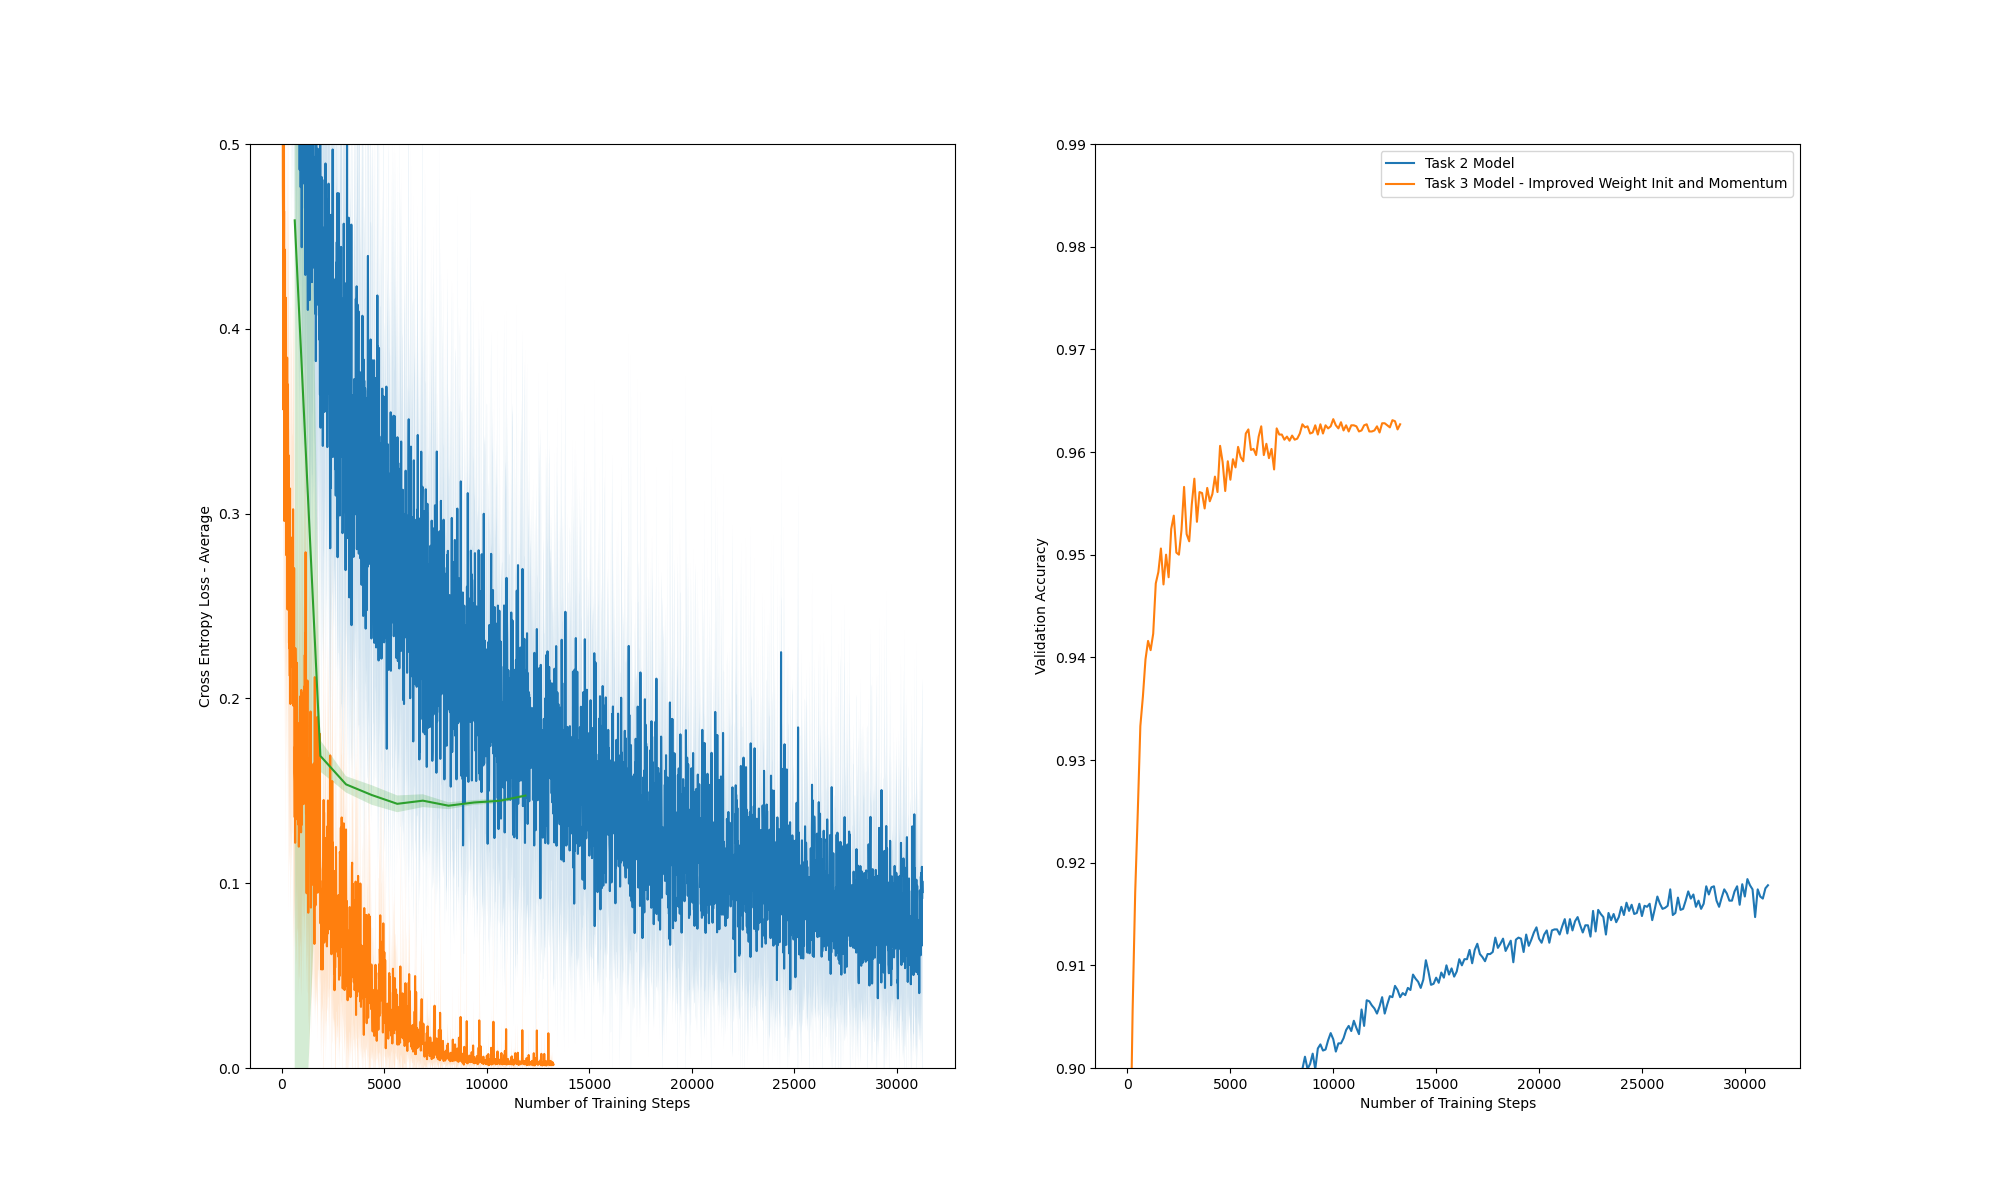
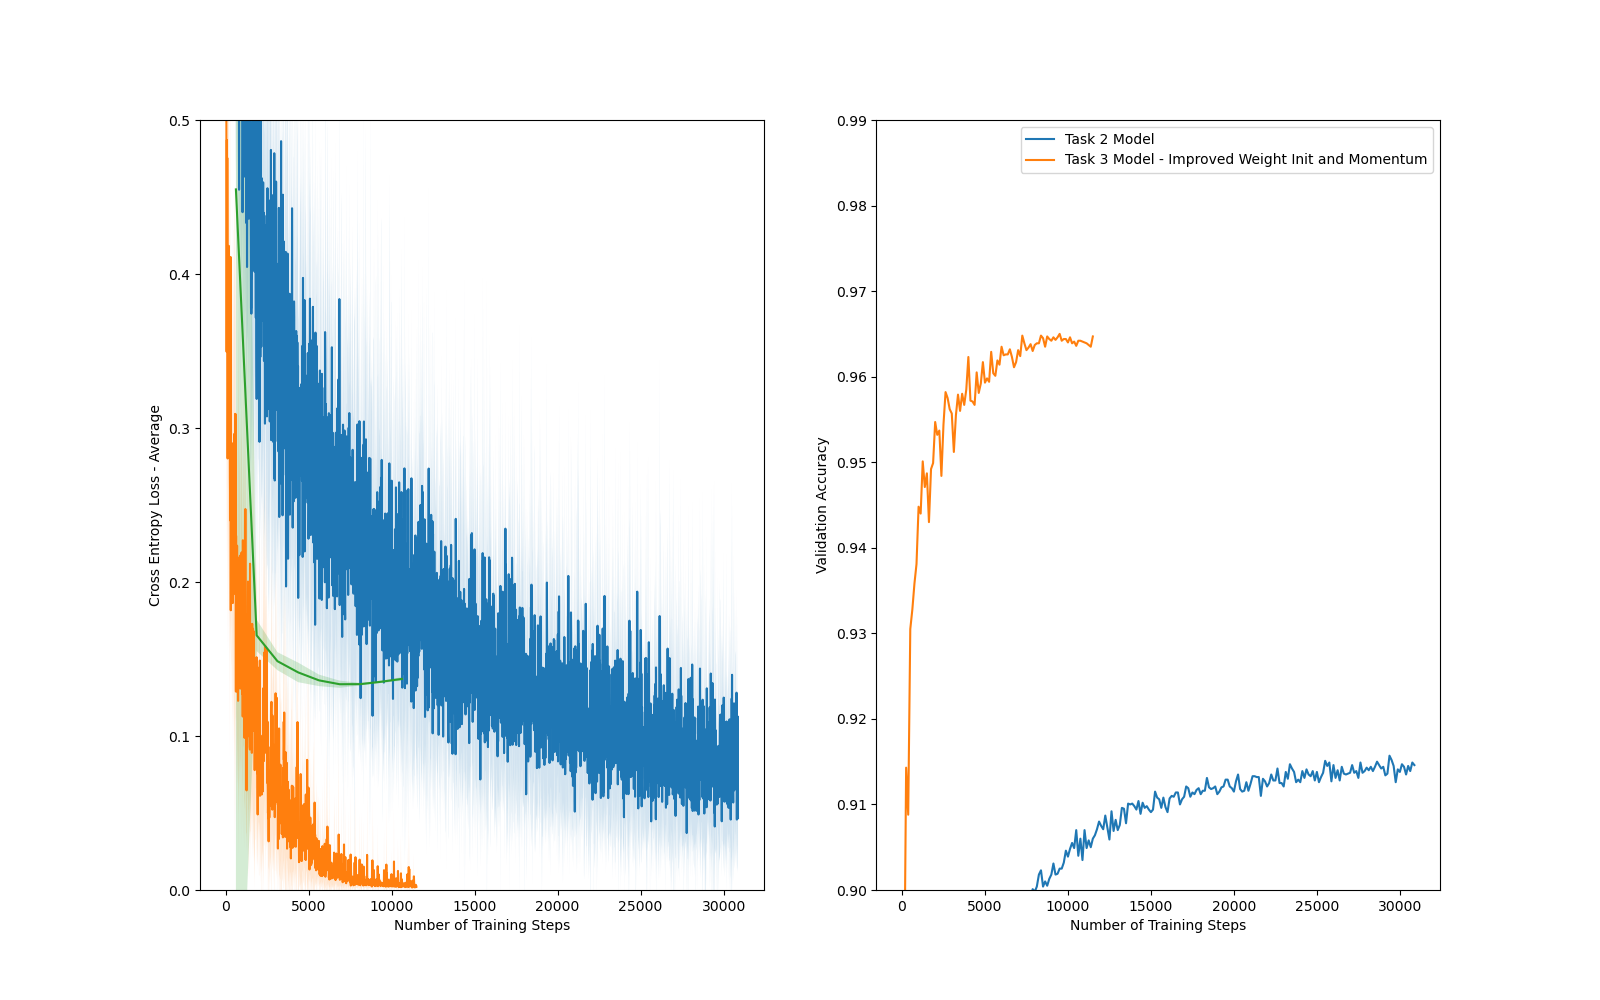
Final assignment 2

diff --git a/assignment2/task3.py b/assignment2/task3.py
@@ -60,7 +60,7 @@ if __name__ == "__main__":
         use_improved_weight_init = False
 
         if single_plots:
-            plt.figure(figsize=(20, 12))
+            plt.figure(figsize=(16, 10))
             plt.subplot(1, 2, 1)
             plt.ylim([0, .5])
             utils.plot_loss(train_history["loss"], "Task 2 Model", npoints_to_average=10)
@@ -104,7 +104,7 @@ if __name__ == "__main__":
         use_improved_sigmoid = False
 
         if single_plots:
-            plt.figure(figsize=(20, 12))
+            plt.figure(figsize=(16, 10))
             plt.subplot(1, 2, 1)
             plt.ylim([0, .5])
             utils.plot_loss(train_history["loss"], "Task 2 Model", npoints_to_average=10)
@@ -147,7 +147,7 @@ if __name__ == "__main__":
         use_momentum = False
 
         if single_plots:
-            plt.figure(figsize=(20, 12))
+            plt.figure(figsize=(16, 10))
             plt.subplot(1, 2, 1)
             plt.ylim([0, .5])
             utils.plot_loss(train_history["loss"], "Task 2 Model", npoints_to_average=10)
@@ -189,7 +189,7 @@ if __name__ == "__main__":
         use_momentum = False
 
         if single_plots:
-            plt.figure(figsize=(20, 12))
+            plt.figure(figsize=(16, 10))
             plt.subplot(1, 2, 1)
             plt.ylim([0, .5])
             utils.plot_loss(train_history["loss"], "Task 2 Model", npoints_to_average=10)
@@ -232,7 +232,7 @@ if __name__ == "__main__":
             num_epochs)
 
         if single_plots:
-            plt.figure(figsize=(20, 12))
+            plt.figure(figsize=(16, 10))
             plt.subplot(1, 2, 1)
             plt.ylim([0, .5])
             utils.plot_loss(train_history["loss"], "Task 2 Model", npoints_to_average=10)
@@ -253,7 +253,7 @@ if __name__ == "__main__":
             # plt.show()
             plt.savefig("task3_improved_weight_momentum.png")
 
-    plt.figure(figsize=(20, 12))
+    plt.figure(figsize=(16, 10))
     plt.subplot(1, 2, 1)
     plt.ylim([0, .5])
     utils.plot_loss(train_history["loss"], "Task 2 Model", npoints_to_average=10)

diff --git a/assignment2/task4ab.py b/assignment2/task4ab.py
@@ -44,14 +44,17 @@ if __name__ == "__main__":
         train_history[num_hidden_neurons] = current_train_history
         val_history[num_hidden_neurons] = current_val_history
 
-    plt.figure(figsize=(20, 12))
+    plt.figure(figsize=(16, 10))
     plt.subplot(1, 2, 1)
     plt.ylim([0, .5])
     for num_hidden_neurons in list_hidden_neurons:
         utils.plot_loss(train_history[num_hidden_neurons]["loss"], f"Model with {num_hidden_neurons} hidden neurons",
                         npoints_to_average=10)
+    for num_hidden_neurons in list_hidden_neurons:
+        utils.plot_loss(val_history[num_hidden_neurons]["loss"], f"Validation with {num_hidden_neurons} hidden neurons")
     plt.xlabel("Number of Training Steps")
     plt.ylabel("Cross Entropy Loss - Average")
+    plt.legend()
 
     plt.subplot(1, 2, 2)
     plt.ylim([0.9, .99])

diff --git a/assignment2/task4de.py b/assignment2/task4de.py
@@ -49,14 +49,18 @@ if __name__ == "__main__":
         train_history[model_name] = current_train_history
         val_history[model_name] = current_val_history
 
-    plt.figure(figsize=(20, 12))
+    plt.figure(figsize=(16, 10))
     plt.subplot(1, 2, 1)
     plt.ylim([0, .5])
     for model_name in train_history.keys():
         utils.plot_loss(train_history[model_name]["loss"], model_name,
                         npoints_to_average=10)
+    for model_name in train_history.keys():
+        utils.plot_loss(val_history[model_name]["loss"], f'Validation {model_name[10:]}',
+                        npoints_to_average=10)
     plt.xlabel("Number of Training Steps")
     plt.ylabel("Cross Entropy Loss - Average")
+    plt.legend()
 
     plt.subplot(1, 2, 2)
     plt.ylim([0.9, .99])

diff --git a/assignment2/trainer.py b/assignment2/trainer.py
@@ -91,7 +91,8 @@ class BaseTrainer:
                     # early stopping: stop training when loss didn't improved in last 60 steps
                     if global_step > 60 and np.argmin(list(val_history["loss"].values())[-61:]) == 0:
                         print(f'Early stopping after {epoch} epochs')
+                        print(f'Final Accuracy: {val_history["accuracy"][global_step]}')
+                        print(f'Final Training Loss: {train_history["loss"][global_step]}')
                         return train_history, val_history
-
                 global_step += 1
         return train_history, val_history

diff --git a/assignment2/task2a.py b/assignment2/task2a.py
@@ -169,8 +169,6 @@ class SoftmaxModel:
 
             # compute error for the previous layer
             error = np.dot(error, self.ws[-layer_idx].T) * _sigmoid_prime(self.hidden_layer_activation[-layer_idx])
-            # TODO: Following https://stackoverflow.com/questions/54624562/back-propagation-and-forward-propagation-for-2-hidden-layers-in-neural-network/56425972
-            #  the weight update must be computed before computing the error for hidden layers
 
         # update gradient of first layer
         self.grads[0] = np.dot(X.T, error) / outputs.shape[0]

diff --git a/assignment2/task2.py b/assignment2/task2.py
@@ -139,7 +139,7 @@ if __name__ == "__main__":
     print("Validation accuracy:", calculate_accuracy(X_val, Y_val, model))
 
     # Plot loss for first model (task 2c)
-    plt.figure(figsize=(20, 12))
+    plt.figure(figsize=(16, 10))
     plt.subplot(1, 2, 1)
     plt.ylim([0., .5])
     utils.plot_loss(train_history["loss"],
